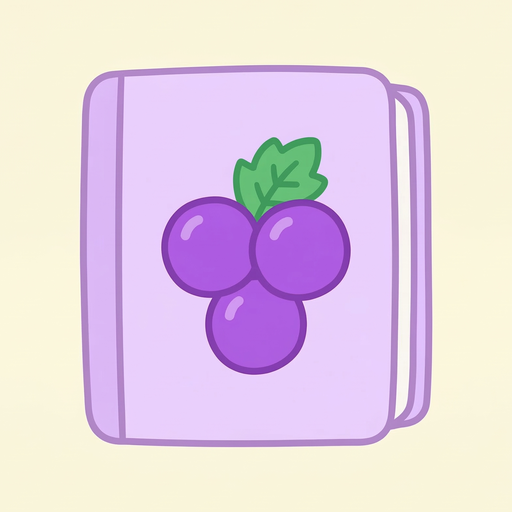
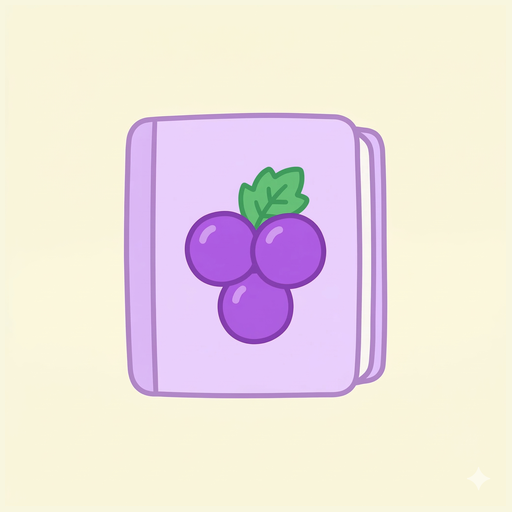
chore: stash 정리 — PWA 아이콘 최적화, ROADMAP 리뉴얼 (#108)
## Summary
- **PWA 아이콘 용량 최적화** — 5개 PNG + SVG 경량화
- **calendar 테스트 주석 보완** + uv.lock python 버전 수정
- **ROADMAP 리뉴얼** — Phase 5~9 추가, 완료된 Phase 접기, 이름 변경 (HomeNRich →
포도가계부)

## Test plan
- [ ] CI 통과 확인

🤖 Generated with [Claude Code](https://claude.com/claude-code)

---------

diff --git a/frontend/src/utils/__tests__/calendar.test.ts b/frontend/src/utils/__tests__/calendar.test.ts
@@ -3,7 +3,7 @@ import { getMonthRange, getCalendarGrid, formatDateHeader, getDayOfWeek } from '
 
 describe('getMonthRange', () => {
   it('3월의 시작일과 마지막일을 반환', () => {
-    const { start, end } = getMonthRange(2026, 2)
+    const { start, end } = getMonthRange(2026, 2) // 0-indexed: 2 = 3월
     expect(start).toBe('2026-03-01')
     expect(end).toBe('2026-03-31')
   })

diff --git a/docs/ROADMAP.md b/docs/ROADMAP.md
@@ -1,133 +1,185 @@
-# HomeNRich 로드맵 (Roadmap)
+# 포도가계부 로드맵 (Roadmap)
 
-**최종 업데이트**: 2026-02-14
+**최종 업데이트**: 2026-03-16
 **기준 문서**: `PRODUCT.md`
 
-이 문서는 HomeNRich의 단계별 구현 계획을 정의합니다.
+---
+
+## 완료된 Phase
+
+<details>
+<summary>Phase 1~4 (완료) — 클릭하여 펼치기</summary>
+
+### Phase 1: Core MVP (개인 가계부) ✅
+자연어 지출 입력 + LLM 자동 분류 + 프리뷰/수정 플로우
+
+### Phase 2: Household Sharing (공유 가계부) ✅
+가구 공유, 멤버별 필터링, 초대, 컨텍스트 탐지
+
+### Phase 3: Bot Integration (메신저 봇) ✅
+Telegram/Kakao 봇 자연어 입력 + Household 연동
+
+### Phase 4: 배포 및 Beta ✅
+Fly.io + Cloudflare Pages 배포, CI/CD, Sentry 연동
+
+</details>
 
 ---
 
-## Phase 1: Core MVP (개인 가계부)
+## Phase 5: 안정화 + 출시 준비
 
-**목표**: 1인 사용자가 자연어로 지출을 입력하고 자동 분류
-**우선순위**: P0 (필수)
+**목표**: 버그 수정, 법적 요건 충족, 기본 품질 확보. 테스터 → 정식 사용자 전환 준비.
+**키워드**: 신뢰, 품질, 법적 기반
+**검증**: 본인 + 가족 1~2명 실사용. 매일 직접 써보면서 버그 잡기. 아직 남한테 보여줄 단계 아님.
 
-| 기능 | 상태 | 완료 조건 |
-|------|------|----------|
-| LLM 자연어 파싱 구현 | **완료** | "점심 8000원" -> 정확한 JSON 파싱 |
-| 프롬프트 엔지니어링 | **완료** | Few-shot 프롬프트 + 카테고리 규칙 |
-| Alembic 마이그레이션 초기화 | **완료** | `alembic upgrade head` 동작 |
-| 프론트엔드 자연어 입력 UI | **완료** | 자연어/폼 2모드 제공 |
-| 파싱 결과 확인/수정 UI | **완료** | 프리뷰 → 수정 → 확인 플로우 |
+### podo-budget
 
-### 상세 작업
+| 이슈 | 제목 | 유형 |
+|------|------|------|
+| [#66](https://github.com/YYong91/podo-budget/issues/66) | 모바일 '반복 거래 등록' 버튼 줄바꿈 버그 | bug |
+| [#72](https://github.com/YYong91/podo-budget/issues/72) | 풀-투-리프레시 PWA 전용 고도화 | bug |
+| [#86](https://github.com/YYong91/podo-budget/issues/86) | 개인정보 처리방침 / 이용약관 | P0 |
+| [#68](https://github.com/YYong91/podo-budget/issues/68) | 버전 정책 0.x.x 전환 + 내역 정리 | 정비 |
+| [#71](https://github.com/YYong91/podo-budget/issues/71) | 하단 탭 순서/명칭 UX 검토 | 정비 |
+| [#74](https://github.com/YYong91/podo-budget/issues/74) | 전반적 성능 최적화 | 정비 |
+| [#75](https://github.com/YYong91/podo-budget/issues/75) | Sentry 모니터링 관리 체계 | 정비 |
+| [#85](https://github.com/YYong91/podo-budget/issues/85) | 에러/빈 상태 UX 일관성 | 정비 |
 
-**1.1 LLM 파싱 구현**
-- `services/llm_service.py`의 `OpenAIProvider.parse_expense()` 구현
-- `AnthropicProvider.parse_expense()` 구현
-- Few-shot 프롬프트 작성 (CATEGORY_RULES.md 참조)
-- 날짜 표현 처리 ("오늘", "어제", "2월 10일")
-- API 에러 핸들링 (timeout, rate limit)
+### podo-auth
 
-**1.2 Alembic 초기화**
-- `alembic init alembic` 실행
-- `env.py`에 Base.metadata 연결
-- 초기 마이그레이션 생성
-- CLAUDE.md에 마이그레이션 가이드 추가
-
-**1.3 프론트엔드 자연어 입력**
-- ChatInput 컴포넌트 (텍스트 입력 + 전송)
-- 파싱 결과 프리뷰 카드 (금액, 카테고리, 날짜)
-- 각 필드 수정 가능 (드롭다운/날짜 선택기)
-- 로딩 상태 표시
+| 이슈 | 제목 | 유형 |
+|------|------|------|
+| [#2](https://github.com/YYong91/podo-auth/issues/2) | 포도가계부 전용 모드 — 포도책장 비활성화 | 정비 |
+| [#3](https://github.com/YYong91/podo-auth/issues/3) | 다크모드 UI — 포도가계부 스타일 통일 | 정비 |
 
 ---
 
-## Phase 2: Household Sharing (공유 가계부)
+## Phase 6: 첫 사용자 경험 (가입 → 정착)
 
-**목표**: 2명 이상이 같은 가구에서 지출을 실시간 공유
-**우선순위**: P1 (중요)
-**선행 조건**: Phase 1 완료
+**목표**: 사용자가 들어와서 안착하게 만드는 것. 가입 → 첫 입력 → "이거 괜찮네" 순간까지의 퍼널 최적화.
+**키워드**: 온보딩, 측정, 피드백 루프
+**선행 조건**: Phase 5 (법적 요건, 기본 품질)
+**검증**: 가까운 지인 5~10명에게 링크 공유. 설명 없이 가입→첫 입력까지 되는지 관찰. 옆에서 쓰는 걸 보거나 화면 공유하면서 관찰하는 게 말로 피드백 받는 것보다 10배 유용.
 
-| 기능 | 상태 | 완료 조건 |
-|------|------|----------|
-| Expense 스키마 확장 | **완료** | ExpenseCreate에 household_id 추가 |
-| chat.py household 지원 | **완료** | household_id 자동감지 + 멤버 검증 |
-| expenses.py household 필터링 | **완료** | household_id로 공유 지출 조회 |
-| 자연어 컨텍스트 탐지 서비스 | **완료** | "우리" -> 공유, "내" -> 개인 |
-| Household 권한 검증 | **완료** | 멤버만 지출 조회/수정 가능 |
-| 초대 이메일 발송 | **완료** | Resend API 연동 |
-| Household 전환 UI | **완료** | 사이드바 드롭다운으로 가구 전환 |
-| 멤버별 지출 필터링 UI | **완료** | 멤버 드롭다운 필터링 |
+### podo-budget
 
-### 상세 작업
+| 이슈 | 제목 | 유형 |
+|------|------|------|
+| [#78](https://github.com/YYong91/podo-budget/issues/78) | 사용자 행동 분석 트래킹 (Analytics) | P1 |
+| [#80](https://github.com/YYong91/podo-budget/issues/80) | 첫 사용자 온보딩 플로우 | P1 |
+| [#73](https://github.com/YYong91/podo-budget/issues/73) | PWA 설치 유도 UX | P1 |
+| [#83](https://github.com/YYong91/podo-budget/issues/83) | 앱 내 사용자 피드백 채널 | P1 |
+| [#91](https://github.com/YYong91/podo-budget/issues/91) | 공유가계부 초대 UX 개선 | P1 |
+| [#67](https://github.com/YYong91/podo-budget/issues/67) | 공유가계부 미읽음 표시 (빨간 점) | P1 |
 
-**2.1 Backend: Expense <-> Household 연결**
-- `ExpenseCreate` 스키마에 `household_id: int | None` 추가
-- `ExpenseResponse`에 `household_name`, `user_id` 추가
-- `chat.py`에서 사용자 가구 조회 -> 자연어 힌트 추출 -> household_id 결정
-- `expenses.py`에 `household_id` 필터 쿼리 파라미터 추가
-- 권한 체크: 해당 가구 멤버만 조회 가능
+### podo-auth
 
-**2.2 Backend: 자연어 컨텍스트 탐지**
-- `services/expense_context_detector.py` 신규 생성
-- 공유 키워드: "우리", "같이", "함께", "공동", "가족"
-- 개인 키워드: "내", "나만", "개인적으로", "혼자"
-- 기본값: 가구 1개면 공유, 없으면 개인
+| 이슈 | 제목 | 유형 |
+|------|------|------|
+| [#5](https://github.com/YYong91/podo-auth/issues/5) | 기본 계정 관리 (비밀번호 변경, 탈퇴 등) | P1 |
 
-**2.3 Frontend: 멀티 Household 지원**
-- 지출 입력 폼에 household 선택 드롭다운
-- 대시보드 뷰 전환 (공유/개인)
-- 멤버별 지출 통계 표시
-- Context API로 현재 Household 상태 관리
-
-### Phase 2에서 제외 (Phase 3 이후)
-- 정산 기능 ("이번 달 A가 B에게 5만원 더 냈음")
-- 지출 승인 시스템
-- 고급 권한 관리 (viewer 역할)
+> **핵심 지표**: 가입 → 첫 입력 전환율, 7일 리텐션
 
 ---
 
-## Phase 3: Bot Integration (메신저 봇)
+## Phase 7: 리텐션 + 입력 편의 (매일 쓰게 만들기)
 
-**목표**: Telegram/KakaoTalk 봇으로 지출 입력 가능
-**우선순위**: P1 (중요)
-**선행 조건**: Phase 1 완료 (LLM 파싱)
+**목표**: "3일 쓰고 안 씀" 문제 해결. 입력을 쉽게, 돌아올 이유를 만들기.
+**키워드**: 습관, 편의, 스마트
+**선행 조건**: Phase 6 (Analytics로 효과 측정 가능)
+**검증**: 지인 20~30명 (지인의 지인 포함), 2주 이상 운영. 카톡 오픈채팅/텔레그램 그룹으로 피드백 수집. 3일/7일/14일차 입력 건수 추이 관찰. "안 쓰게 된 이유"를 직접 물어보기. **30일 리텐션 20% 이상 나오면 다음 단계.**
 
-| 기능 | 상태 | 완료 조건 |
-|------|------|----------|
-| Telegram Webhook 설정 | **완료** | /start, /help, /report, /budget 명령어 동작 |
-| Telegram 자연어 입력 | **완료** | "점심 8000원" → LLM 파싱 → 자동 등록 |
-| Telegram 카테고리 변경 | **완료** | 인라인 키보드로 카테고리 선택/변경 |
-| Telegram Household 연동 | **완료** | 컨텍스트 탐지 → household_id 자동 설정 |
-| Kakao OpenBuilder 연동 | **완료** | LLM 파싱 + Household 연동 |
-| 봇 실제 배포 (토큰 설정) | 예정 | 실서버에서 Webhook URL 등록 |
+| 이슈 | 제목 | 유형 |
+|------|------|------|
+| [#82](https://github.com/YYong91/podo-budget/issues/82) | 리텐션 장치 — 리마인더, 주간 리포트, 연속 기록 | P1 |
+| [#88](https://github.com/YYong91/podo-budget/issues/88) | 자주 쓰는 내역 즐겨찾기/템플릿 | P2 |
+| [#87](https://github.com/YYong91/podo-budget/issues/87) | 거래 내역 검색 | P2 |
+| [#93](https://github.com/YYong91/podo-budget/issues/93) | LLM 분류 피드백 루프 | P2 |
+| [#95](https://github.com/YYong91/podo-budget/issues/95) | 정기결제 자동 감지 | P2 |
 
----
-
-## Phase 4: 배포 및 Beta
-
-**목표**: Fly.io 배포 + 베타 테스터 모집
-**선행 조건**: Phase 1-3 완료
-
-- ~~Fly.io 배포 (Backend + Frontend + DB)~~ **설정 완료** — fly.toml + Dockerfile + 시크릿 설정, 트라이얼 만료로 결제 활성화 필요
-- ~~CI/CD 설정 (GitHub Actions)~~ **완료** — Production (main push → test → deploy) + PR Test
-- ~~Sentry 에러 트래킹~~ **완료** — Backend(sentry-sdk) + Frontend(@sentry/react), DSN 없으면 비활성화
-- 베타 테스터 10쌍 (20명) 모집
-- 2주간 피드백 수집
+> **핵심 지표**: DAU/MAU 비율, 30일 리텐션, 일평균 입력 건수
 
 ---
 
-## 장기 로드맵 (Phase 5+)
+## Phase 8: 데이터 활용 + 스마트 기능 (깊이)
 
-- 영수증 OCR (Google Vision API)
-- CSV/Excel 임포트
-- AI 기반 지출 패턴 분석 및 절약 제안
-- 프리미엄 기능 (무제한 멤버, 고급 리포트, 유료 플랜 $5/월)
+**목표**: 쌓인 데이터로 가치를 만드는 단계. "써보니까 도움이 된다" 체감.
+**키워드**: 인사이트, 자산, 목표
+**선행 조건**: Phase 7 (충분한 데이터 축적)
+**검증**: SNS 소프트 런칭, 50~100명. 개발자 커뮤니티에 "사이드 프로젝트" 글, 재테크 커뮤니티에 "커플/부부 공유 가계부" 글. 모르는 사람이 가치를 느끼는지, 자발적 피드백/기능 요청이 오는지 관찰. 가입 전환율 측정.
+
+| 이슈 | 제목 | 유형 |
+|------|------|------|
+| [#92](https://github.com/YYong91/podo-budget/issues/92) | 거래 내역 태그 시스템 | P2 |
+| [#90](https://github.com/YYong91/podo-budget/issues/90) | 예산 진단 — 카테고리 성격 기반 | P2 |
+| [#97](https://github.com/YYong91/podo-budget/issues/97) | 저축 목표 + 포도송이 시각화 | P2 |
+| [#89](https://github.com/YYong91/podo-budget/issues/89) | 가구 대시보드 — 우리 집 재정 현황 | P2 |
+| [#100](https://github.com/YYong91/podo-budget/issues/100) | 소비 예측 — 패턴 기반 예상 지출 | P2 |
+| [#103](https://github.com/YYong91/podo-budget/issues/103) | 할부 관리 — 잔여 횟수/금액 추적 | P2 |
+| [#69](https://github.com/YYong91/podo-budget/issues/69) | 데이터 마이그레이션 — CSV 가져오기 | P2 |
+| [#79](https://github.com/YYong91/podo-budget/issues/79) | 데이터 내보내기 (CSV/Excel) | P2 |
+| [#77](https://github.com/YYong91/podo-budget/issues/77) | 자산 — 주식 실시간 가격 연동 | P2 |
+
+> **핵심 지표**: 리포트 조회율, 예산 설정율, 목표 생성 수
+
+---
+
+## Phase 9: 확장 + 앱 출시 (스케일업)
+
+**목표**: 네이티브 앱 출시, 바이럴 기능, 인프라 고도화. 테스터 → 일반 사용자 확장.
+**키워드**: 성장, 바이럴, 안정성
+**선행 조건**: Phase 7~8 핵심 기능 안정화
+**검증**: 앱스토어/플레이스토어 출시. 인스타/블로그 마케팅 + 연말 결산 카드 등 바이럴 기능으로 자연 유입. Phase 8에서 모르는 사람의 리텐션이 검증된 상태여야 함.
+
+### 인프라 + 인증
+
+| 이슈 | 제목 | 유형 |
+|------|------|------|
+| [#76](https://github.com/YYong91/podo-budget/issues/76) | 정식 출시 대비 인프라 보강 (AWS 등) | P3 |
+| [#70](https://github.com/YYong91/podo-budget/issues/70) | 앱 푸시 알림 설계 | P3 |
+| [podo-auth #4](https://github.com/YYong91/podo-auth/issues/4) | 소셜 로그인 + 이메일 인증 | P3 |
+
+### 바이럴 + 감성
+
+| 이슈 | 제목 | 유형 |
+|------|------|------|
+| [#94](https://github.com/YYong91/podo-budget/issues/94) | 연말 결산 리포트 — 공유 카드 | P3 |
+| [#104](https://github.com/YYong91/podo-budget/issues/104) | 소비 성향 유형 테스트 | P3 |
+| [#98](https://github.com/YYong91/podo-budget/issues/98) | 절약 챌린지 — 가구 멤버 동기부여 | P3 |
+
+### 고급 기능
+
+| 이슈 | 제목 | 유형 |
+|------|------|------|
+| [#102](https://github.com/YYong91/podo-budget/issues/102) | 음성 입력 | P3 |
+| [#96](https://github.com/YYong91/podo-budget/issues/96) | 거래 메모 사진 첨부 | P3 |
+| [#99](https://github.com/YYong91/podo-budget/issues/99) | 또래 소비 비교 — 익명 통계 | P3 |
+| [#101](https://github.com/YYong91/podo-budget/issues/101) | 연말정산 도우미 (검토) | P3 |
+| [#81](https://github.com/YYong91/podo-budget/issues/81) | 접근성(a11y) | P3 |
+| [#84](https://github.com/YYong91/podo-budget/issues/84) | PWA 오프라인 지원 | P3 |
+
+---
+
+## 전체 흐름 요약
+
+```
+Phase    질문                          검증 대상         규모
+─────────────────────────────────────────────────────────────
+  5      "제대로 동작하는가?"          본인 + 가족       2~3명
+  6      "들어와서 안착하는가?"        가까운 지인       5~10명
+  7      "매일 쓰는가?"               넓은 지인         20~30명
+  8      "쓸수록 도움이 되는가?"       SNS/커뮤니티      50~100명
+  9      "다른 사람에게 추천하는가?"   앱스토어          일반 공개
+```
+
+각 Phase는 이전 단계의 핵심 지표가 일정 수준에 도달해야 다음으로 넘어간다.
+Phase 간 병렬 진행 가능하나, 리소스 분산 주의.
 
 ---
 
 ## 참조 문서
 
-- **프로젝트 기준**: `PRODUCT.md`
+- **프로덕트 정의**: `PRODUCT.md`
 - **구현 현황**: `IMPLEMENTATION_STATUS.md`
+- **이슈 보드**: [GitHub Issues](https://github.com/YYong91/podo-budget/issues)
+- **podo-auth 이슈**: [GitHub Issues](https://github.com/YYong91/podo-auth/issues)
